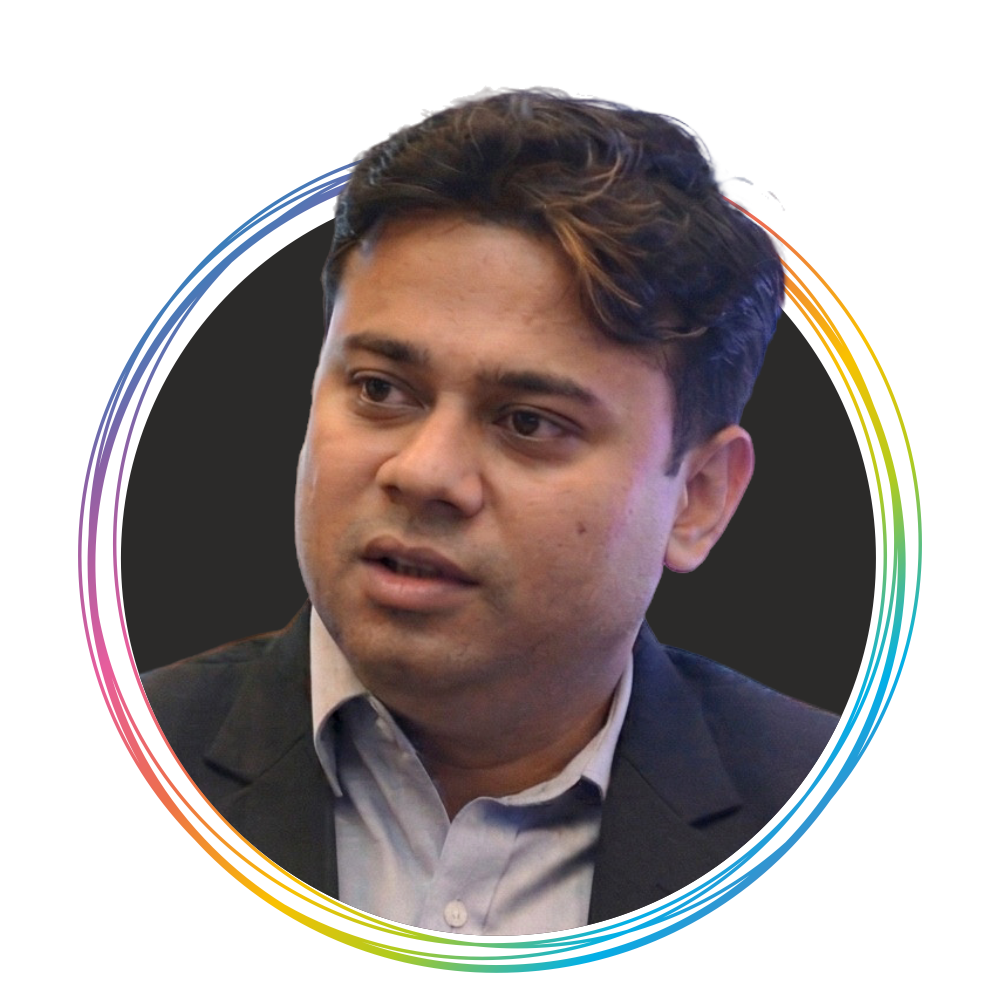
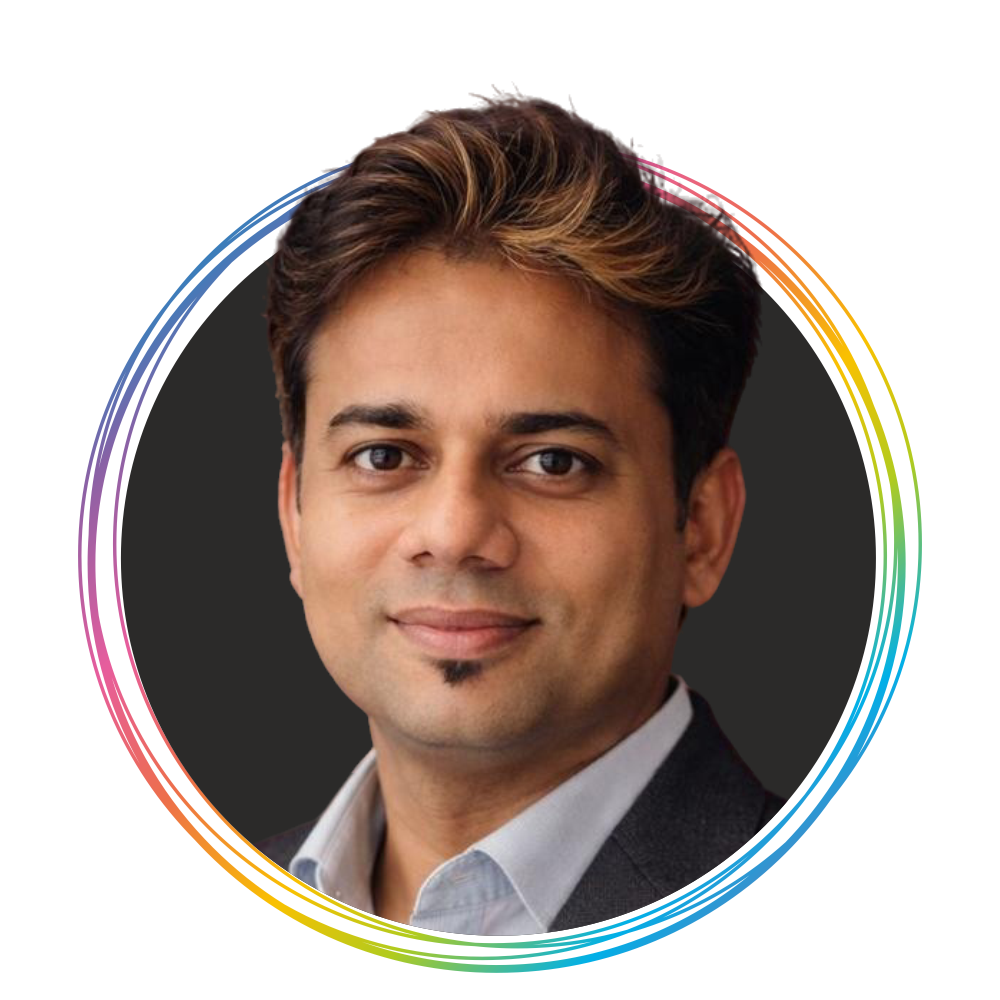
add new member and replace image

Changed region(s): [[0.217, 0.062, 0.837, 0.961], [0.124, 0.651, 0.217, 0.713]]

diff --git a/src/app/cmplexpo/components/AgendaSection.tsx b/src/app/cmplexpo/components/AgendaSection.tsx
@@ -371,12 +371,18 @@ const speakerPhotos: Record<string, SpeakerInfo> = {
     company: 'Aperio Partners',
     img: '/assets/members/ASHIM JOLLY.png',
   },
-  'SIDDHARTH RUSTAGI' : {
-    name:'SIDDHARTH RUSTAGI',
-    role : 'CO-FOUNDER',
-    company : 'Innobev Solutions Pvt. Ltd.',
+  'SIDDHARTH RUSTAGI': {
+    name: 'SIDDHARTH RUSTAGI',
+    role: 'CO-FOUNDER',
+    company: 'Innobev Solutions Pvt. Ltd.',
     img: '/assets/members/SIDDHARTH RUSTAGI.png',
-  }
+  },
+  'Amit Kale': {
+    name: 'AMIT KALE',
+    role: 'ASSOCIATE VICE PRESIDENT',
+    company: 'RELIANCE RETAIL',
+    img: '/assets/members/AMIT KALE.png',
+  },
 };
 
 const agenda: Record<string, { date: string; sessions: Session[] }> = {
@@ -451,7 +457,11 @@ const agenda: Record<string, { date: string; sessions: Session[] }> = {
         link: 'https://workshops.cmplexpo.com/savore-workshop',
         description:
           'A deep-dive workshop into the future of Indian food and beverage formulation. Explore emerging ingredients, consumer nutrition trends, and how to build products that resonate with the evolving Indian palate in 2026–27.',
-        speakerDetails: [speakerPhotos['Ritesh Mathur'], speakerPhotos['FT Subhaprada Nishtala'],speakerPhotos['SIDDHARTH RUSTAGI']],
+        speakerDetails: [
+          speakerPhotos['Ritesh Mathur'],
+          speakerPhotos['FT Subhaprada Nishtala'],
+          speakerPhotos['SIDDHARTH RUSTAGI'],
+        ],
       },
       {
         time: '3:45 PM – 4:30 PM',
@@ -556,7 +566,13 @@ const agenda: Record<string, { date: string; sessions: Session[] }> = {
         title: 'The Contradiction Economy: Building F&B for a Consumer Who Wants Everything',
         description:
           'Creating a successful product now requires balancing function, clean label expectations, premium appeal, and affordability. This session examines how brands can develop smarter product briefs, assess which emerging ingredients are truly market-ready, and scale premium innovation beyond metros without compromising quality or price.',
-        speakerDetails: [speakerPhotos['Ashwin Bhadri'], speakerPhotos['Varun Sheth'], speakerPhotos['Kinnari Gosrani Shah'], speakerPhotos['Varun Kapur'], speakerPhotos['Vinay Maheshwari']],
+        speakerDetails: [
+          speakerPhotos['Ashwin Bhadri'],
+          speakerPhotos['Varun Sheth'],
+          speakerPhotos['Kinnari Gosrani Shah'],
+          speakerPhotos['Varun Kapur'],
+          speakerPhotos['Vinay Maheshwari'],
+        ],
       },
       {
         time: '2:00 PM – 3:00 PM',
@@ -564,7 +580,14 @@ const agenda: Record<string, { date: string; sessions: Session[] }> = {
         title: 'The Mompreneurs Walkthrough',
         description:
           'An initiative in collaboration with UNIMO - Universe of Moms, this walkthrough is designed to support and empower women building brands alongside motherhood. It offers a focused platform to explore the CMPL ecosystem, discover the right partners, gain actionable insights, and accelerate their entrepreneurial journey - while connecting with a community that truly understands and champions their path.',
-        speakerDetails: [{ name: 'UNIMO', role: 'Universe of Moms', company: 'In collaboration with', img: '/assets/logo/MUMO_Logo.ai.png' }],
+        speakerDetails: [
+          {
+            name: 'UNIMO',
+            role: 'Universe of Moms',
+            company: 'In collaboration with',
+            img: '/assets/logo/MUMO_Logo.ai.png',
+          },
+        ],
       },
       {
         time: '2:45 PM – 3:30 PM',
@@ -574,6 +597,7 @@ const agenda: Record<string, { date: string; sessions: Session[] }> = {
         description:
           "Every packaging decision is a negotiation - between brand ambition, retail realities, and what manufacturing can truly deliver. This session brings the manufacturer's perspective to the centre: what's viable, what's greenwashing, and where briefs meet reality - across sustainable materials, lightweighting, regulations, and shelf presence at Indian scale.",
         speakerDetails: [
+          speakerPhotos['Amit Kale'],
           speakerPhotos['Subhra Sankha Nandi'],
           speakerPhotos['Navin Stuart'],
           speakerPhotos['Deepanker Agarwal'],
@@ -660,16 +684,28 @@ function getWorkshopColor(title: string): string | null {
   return null;
 }
 
-function SessionSpeakers({ speakers, isWorkshop }: { speakers: SpeakerInfo[]; isWorkshop?: boolean }) {
+function SessionSpeakers({
+  speakers,
+  isWorkshop,
+}: {
+  speakers: SpeakerInfo[];
+  isWorkshop?: boolean;
+}) {
   return (
     <div className="flex flex-wrap gap-2 sm:gap-3 mt-4">
       {speakers.map((spk, i) => (
         <div
           key={i}
           className="flex items-center gap-2 sm:gap-2.5 rounded-lg px-2 sm:px-3 py-1.5 sm:py-2"
-          style={isWorkshop ? { background: '#FFFFFF', border: '1px solid rgba(0,0,0,0.08)' } : { background: 'rgba(184,134,11,0.05)', border: '1px solid rgba(184,134,11,0.15)' }}
+          style={
+            isWorkshop
+              ? { background: '#FFFFFF', border: '1px solid rgba(0,0,0,0.08)' }
+              : { background: 'rgba(184,134,11,0.05)', border: '1px solid rgba(184,134,11,0.15)' }
+          }
         >
-          <div className={`overflow-hidden flex-shrink-0 w-16 h-16 sm:w-20 sm:h-20 md:w-24 md:h-24 ${spk.img.includes('/logo/') ? 'rounded-lg bg-white p-1' : 'rounded-full'}`}>
+          <div
+            className={`overflow-hidden flex-shrink-0 w-16 h-16 sm:w-20 sm:h-20 md:w-24 md:h-24 ${spk.img.includes('/logo/') ? 'rounded-lg bg-white p-1' : 'rounded-full'}`}
+          >
             <AppImage
               src={spk.img}
               alt={`${spk.name}, ${spk.role} at ${spk.company}`}
@@ -771,7 +807,7 @@ export default function AgendaSection() {
 
         {/* Sessions */}
         <div className="space-y-2">
-          {agenda[activeDay].sessions.map((session, i) => (
+          {agenda[activeDay].sessions.map((session, i) =>
             session.banner ? (
               <div key={i} className="rounded-lg overflow-hidden">
                 <AppImage
@@ -789,110 +825,121 @@ export default function AgendaSection() {
                   className="w-full h-auto block sm:hidden rounded-lg"
                 />
               </div>
-            ) :
-            <div
-              key={i}
-              className={`session-card rounded-lg p-3 sm:p-5 md:p-6`}
-              style={(() => {
-                const wc = session.type === 'workshop' ? getWorkshopColor(session.title) : null;
-                const wcBg = wc ? wc.replace('rgb(', 'rgba(').replace(')', ', 0.05)') : null;
-                const wcBorder = wc ? wc.replace('rgb(', 'rgba(').replace(')', ', 0.15)') : null;
-                return {
-                  background: session.highlight
-                    ? 'rgba(184,134,11,0.06)'
-                    : wcBg || (session.type === 'workshop' ? '#fafaf826' : '#FFFFFF'),
-                  border: session.highlight
-                    ? '1px solid rgba(184,134,11,0.25)'
-                    : wcBorder
-                      ? `1px solid ${wcBorder}`
-                      : session.type === 'workshop'
-                        ? '1px solid rgba(107,95,189,0.2)'
-                        : '1px solid rgba(184,134,11,0.1)',
-                };
-              })()}
-            >
-              <div className="flex flex-col sm:flex-row sm:items-start gap-2 sm:gap-4">
-                {/* Time */}
-                <div className="sm:min-w-[160px]">
-                  <span
-                    className="text-[11px] font-bold tracking-wider uppercase"
-                    style={{ color: '#9A7B20' }}
-                  >
-                    {session.time}
-                  </span>
-                </div>
-
-                {/* Content */}
-                <div className="flex-1">
-                  {(() => {
-                    const badgeColor = (session.type === 'workshop' && getWorkshopColor(session.title)) || typeColors[session.type];
-                    const badgeColorBg = session.type === 'workshop' && getWorkshopColor(session.title)
-                      ? getWorkshopColor(session.title)!.replace('rgb(', 'rgba(').replace(')', ', 0.1)')
-                      : `${typeColors[session.type]}15`;
-                    const badgeColorBorder = session.type === 'workshop' && getWorkshopColor(session.title)
-                      ? getWorkshopColor(session.title)!.replace('rgb(', 'rgba(').replace(')', ', 0.25)')
-                      : `${typeColors[session.type]}30`;
-                    return (
-                  <div className="flex flex-wrap items-center gap-2 mb-2">
-                    {session.track && (
-                      <span
-                        className="text-[9px] font-bold tracking-[0.2em] uppercase px-2 py-0.5 rounded"
-                        style={{
-                          background: badgeColorBg,
-                          color: badgeColor,
-                          border: `1px solid ${badgeColorBorder}`,
-                        }}
-                      >
-                        {session.track}
-                      </span>
-                    )}
+            ) : (
+              <div
+                key={i}
+                className={`session-card rounded-lg p-3 sm:p-5 md:p-6`}
+                style={(() => {
+                  const wc = session.type === 'workshop' ? getWorkshopColor(session.title) : null;
+                  const wcBg = wc ? wc.replace('rgb(', 'rgba(').replace(')', ', 0.05)') : null;
+                  const wcBorder = wc ? wc.replace('rgb(', 'rgba(').replace(')', ', 0.15)') : null;
+                  return {
+                    background: session.highlight
+                      ? 'rgba(184,134,11,0.06)'
+                      : wcBg || (session.type === 'workshop' ? '#fafaf826' : '#FFFFFF'),
+                    border: session.highlight
+                      ? '1px solid rgba(184,134,11,0.25)'
+                      : wcBorder
+                        ? `1px solid ${wcBorder}`
+                        : session.type === 'workshop'
+                          ? '1px solid rgba(107,95,189,0.2)'
+                          : '1px solid rgba(184,134,11,0.1)',
+                  };
+                })()}
+              >
+                <div className="flex flex-col sm:flex-row sm:items-start gap-2 sm:gap-4">
+                  {/* Time */}
+                  <div className="sm:min-w-[160px]">
                     <span
-                      className="text-[9px] font-bold tracking-[0.2em] uppercase px-2 py-0.5 rounded"
-                      style={{
-                        background: badgeColorBg,
-                        color: badgeColor,
-                      }}
+                      className="text-[11px] font-bold tracking-wider uppercase"
+                      style={{ color: '#9A7B20' }}
                     >
-                      {typeLabels[session.type]}
+                      {session.time}
                     </span>
                   </div>
-                    );
-                  })()}
 
-                  <h3
-                    className={`font-display font-semibold leading-snug mb-2 ${
-                      session.highlight ? 'text-xl' : 'text-base md:text-lg'
-                    }`}
-                    style={{ color: session.highlight ? '#B8860B' : '#1A1612' }}
-                  >
-                    {session.link ? (
-                      <a
-                        href={session.link}
-                        target="_blank"
-                        rel="noopener noreferrer"
-                        className="underline decoration-gold/40 hover:decoration-gold transition-colors"
-                      >
-                        {session.title}
-                      </a>
-                    ) : (
-                      session.title
+                  {/* Content */}
+                  <div className="flex-1">
+                    {(() => {
+                      const badgeColor =
+                        (session.type === 'workshop' && getWorkshopColor(session.title)) ||
+                        typeColors[session.type];
+                      const badgeColorBg =
+                        session.type === 'workshop' && getWorkshopColor(session.title)
+                          ? getWorkshopColor(session.title)!
+                              .replace('rgb(', 'rgba(')
+                              .replace(')', ', 0.1)')
+                          : `${typeColors[session.type]}15`;
+                      const badgeColorBorder =
+                        session.type === 'workshop' && getWorkshopColor(session.title)
+                          ? getWorkshopColor(session.title)!
+                              .replace('rgb(', 'rgba(')
+                              .replace(')', ', 0.25)')
+                          : `${typeColors[session.type]}30`;
+                      return (
+                        <div className="flex flex-wrap items-center gap-2 mb-2">
+                          {session.track && (
+                            <span
+                              className="text-[9px] font-bold tracking-[0.2em] uppercase px-2 py-0.5 rounded"
+                              style={{
+                                background: badgeColorBg,
+                                color: badgeColor,
+                                border: `1px solid ${badgeColorBorder}`,
+                              }}
+                            >
+                              {session.track}
+                            </span>
+                          )}
+                          <span
+                            className="text-[9px] font-bold tracking-[0.2em] uppercase px-2 py-0.5 rounded"
+                            style={{
+                              background: badgeColorBg,
+                              color: badgeColor,
+                            }}
+                          >
+                            {typeLabels[session.type]}
+                          </span>
+                        </div>
+                      );
+                    })()}
+
+                    <h3
+                      className={`font-display font-semibold leading-snug mb-2 ${
+                        session.highlight ? 'text-xl' : 'text-base md:text-lg'
+                      }`}
+                      style={{ color: session.highlight ? '#B8860B' : '#1A1612' }}
+                    >
+                      {session.link ? (
+                        <a
+                          href={session.link}
+                          target="_blank"
+                          rel="noopener noreferrer"
+                          className="underline decoration-gold/40 hover:decoration-gold transition-colors"
+                        >
+                          {session.title}
+                        </a>
+                      ) : (
+                        session.title
+                      )}
+                    </h3>
+
+                    {session.description && session.type !== 'break' && (
+                      <p className="text-sm leading-relaxed mb-3" style={{ color: '#7A6040' }}>
+                        {session.description}
+                      </p>
                     )}
-                  </h3>
 
-                  {session.description && session.type !== 'break' && (
-                    <p className="text-sm leading-relaxed mb-3" style={{ color: '#7A6040' }}>
-                      {session.description}
-                    </p>
-                  )}
-
-                  {session.speakerDetails && session.speakerDetails.length > 0 && (
-                    <SessionSpeakers speakers={session.speakerDetails} isWorkshop={session.type === 'workshop'} />
-                  )}
-
+                    {session.speakerDetails && session.speakerDetails.length > 0 && (
+                      <SessionSpeakers
+                        speakers={session.speakerDetails}
+                        isWorkshop={session.type === 'workshop'}
+                      />
+                    )}
+                  </div>
                 </div>
               </div>
-            </div>
-          ))}
+            )
+          )}
         </div>
       </div>
     </section>
